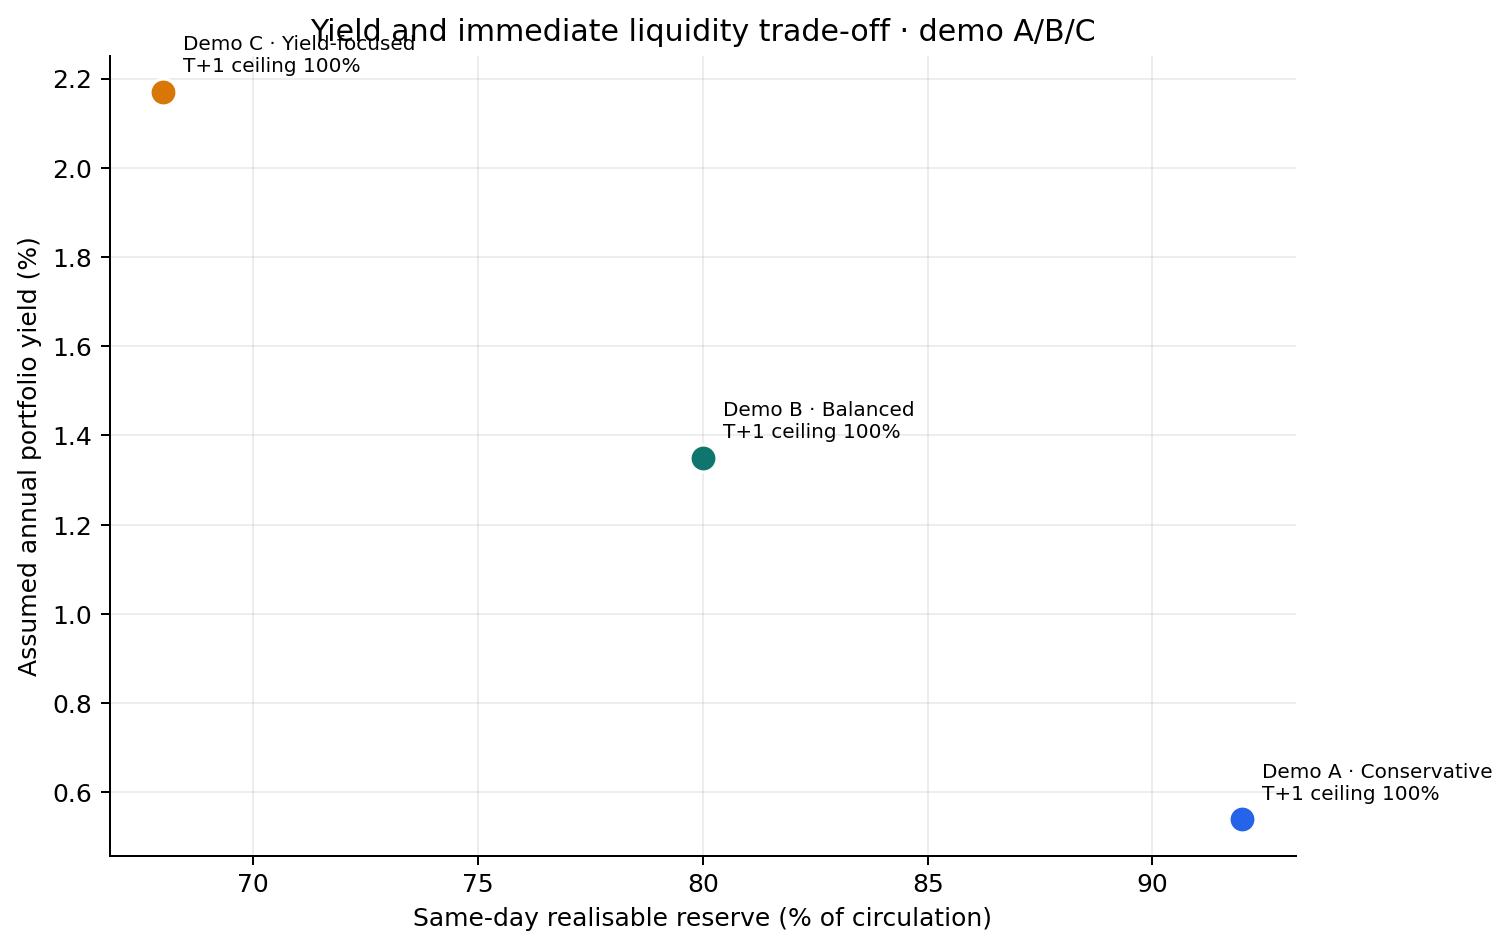
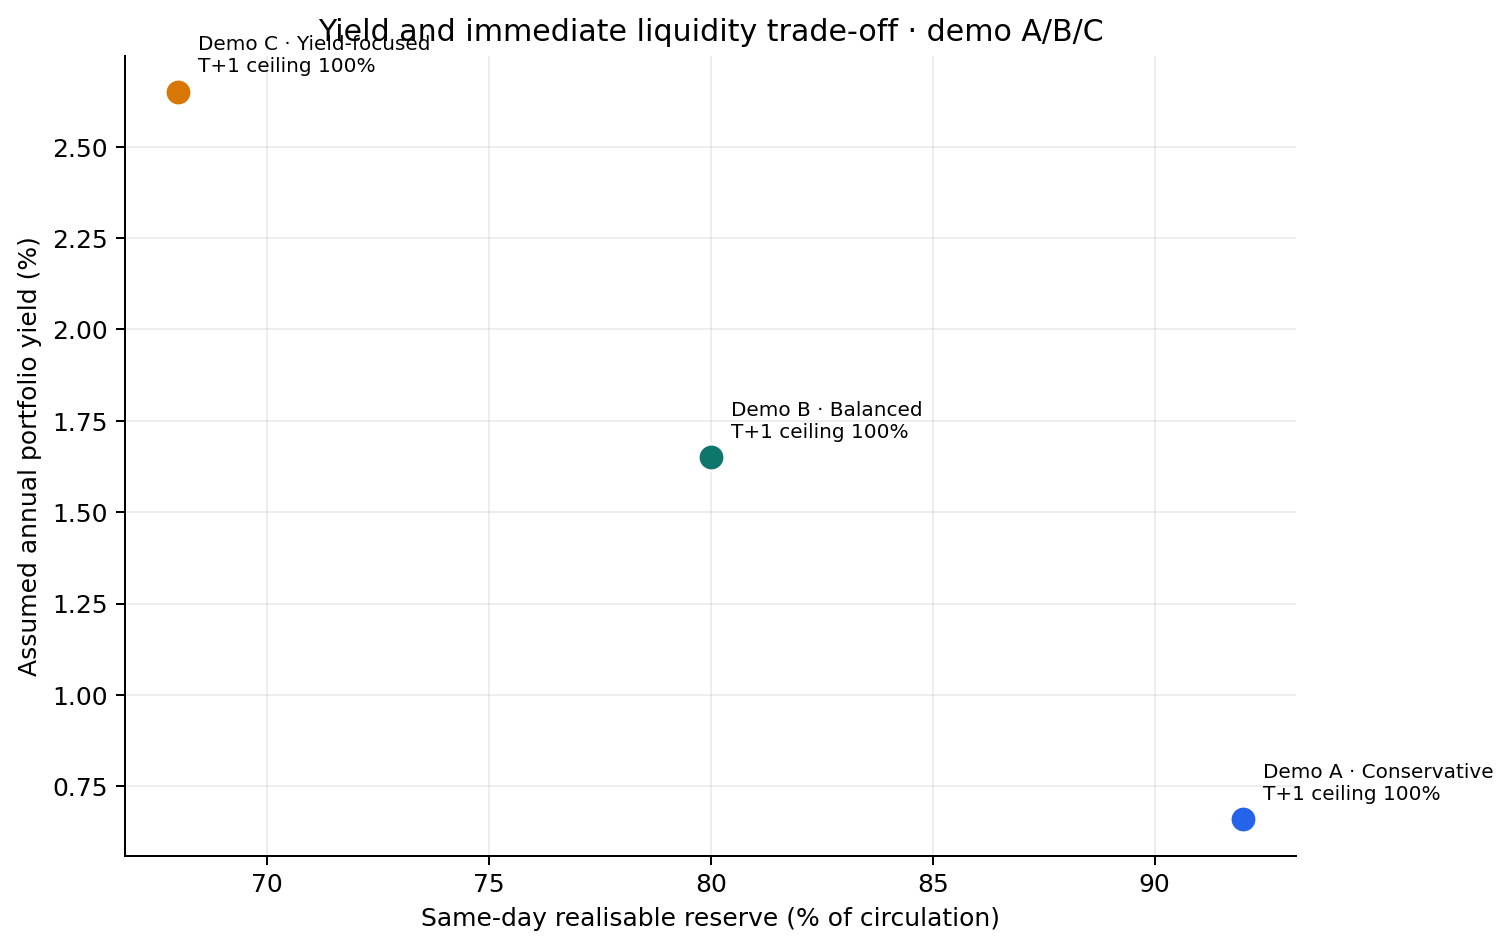
Use latest EFB yield and add Streamlit demo

diff --git a/app.py b/app.py
@@ -1,0 +1,189 @@
+"""Interactive Streamlit front end for the stablecoin redemption demo."""
+
+from __future__ import annotations
+
+import sys
+from pathlib import Path
+
+import matplotlib.pyplot as plt
+import numpy as np
+import pandas as pd
+import streamlit as st
+
+ROOT = Path(__file__).resolve().parent
+if str(ROOT) not in sys.path:
+    sys.path.insert(0, str(ROOT))
+
+from src.engine import (  # noqa: E402
+    coverage,
+    gap_and_flag,
+    load_assets,
+    load_portfolios,
+    on_time_available,
+    on_time_rate,
+    portfolio_yield,
+    same_day_available,
+    validate_weights,
+)
+from src.rules import allocate  # noqa: E402
+
+
+st.set_page_config(page_title="稳定币 T+1 兑付模拟", page_icon="💧", layout="wide")
+st.title("稳定币储备与 T+1 兑付韧性")
+st.caption("交互式 demo：调整资产流动性假设、组合权重和赎回冲击，即时查看兑付与分配结果。")
+
+
+@st.cache_data
+def load_inputs():
+    assets = load_assets(ROOT / "data" / "params_assets.csv")
+    portfolios = load_portfolios(ROOT / "data" / "portfolios.csv")
+    return assets, portfolios
+
+
+base_assets, base_portfolios = load_inputs()
+asset_rows = []
+for asset_id, asset in base_assets.items():
+    asset_rows.append({"asset_id": asset_id, **asset})
+asset_df = pd.DataFrame(asset_rows)
+weight_rows = []
+for portfolio_id, entry in base_portfolios.items():
+    for asset_id, weight in entry["weights"].items():
+        weight_rows.append({
+            "portfolio_id": portfolio_id,
+            "portfolio_name": entry["name"],
+            "asset_id": asset_id,
+            "weight": weight,
+        })
+weight_df = pd.DataFrame(weight_rows)
+
+with st.expander("调整资产参数与组合权重", expanded=False):
+    st.markdown("SD、T+1、压力扣减和收益率均可编辑；组合权重需要在每个组合内合计为 100%。")
+    edited_assets = st.data_editor(
+        asset_df,
+        hide_index=True,
+        width="stretch",
+        disabled=["asset_id", "asset_name_cn", "settle_days", "source", "note"],
+        column_config={
+            "same_day_ratio": st.column_config.NumberColumn("SD 比例", min_value=0.0, max_value=1.0, step=0.01, format="%.2f"),
+            "next_day_ratio": st.column_config.NumberColumn("T+1 增量比例", min_value=0.0, max_value=1.0, step=0.01, format="%.2f"),
+            "stress_haircut": st.column_config.NumberColumn("压力扣减", min_value=0.0, max_value=1.0, step=0.01, format="%.2f"),
+            "annual_yield": st.column_config.NumberColumn("年化收益率", min_value=-1.0, max_value=1.0, step=0.001, format="%.3%"),
+        },
+        key="asset_parameters",
+    )
+    edited_weights = st.data_editor(
+        weight_df,
+        hide_index=True,
+        width="stretch",
+        disabled=["portfolio_id", "portfolio_name", "asset_id"],
+        column_config={
+            "weight": st.column_config.NumberColumn("组合权重", min_value=0.0, max_value=1.0, step=0.01, format="%.2f"),
+        },
+        key="portfolio_weights",
+    )
+
+assets = {}
+for _, row in edited_assets.iterrows():
+    assets[row["asset_id"]] = {
+        "asset_name_cn": row["asset_name_cn"],
+        "same_day_ratio": float(row["same_day_ratio"]),
+        "next_day_ratio": float(row["next_day_ratio"]),
+        "settle_days": int(row["settle_days"]),
+        "stress_haircut": float(row["stress_haircut"]),
+        "annual_yield": float(row["annual_yield"]),
+        "source": row["source"],
+        "note": row["note"],
+    }
+portfolios = {pid: {"name": entry["name"], "weights": {}} for pid, entry in base_portfolios.items()}
+for _, row in edited_weights.iterrows():
+    portfolios[row["portfolio_id"]]["weights"][row["asset_id"]] = float(row["weight"])
+try:
+    validate_weights(portfolios, assets)
+except (ValueError, KeyError) as exc:
+    st.error(f"输入未通过校验：{exc}。请检查组合权重总和及资产代码。")
+    st.stop()
+
+portfolio_ids = list(portfolios)
+name_map = {pid: f"Demo {pid} · {portfolios[pid]['name']}" for pid in portfolio_ids}
+with st.sidebar:
+    st.header("模拟设置")
+    selected = st.selectbox("查看组合", portfolio_ids, format_func=lambda pid: name_map[pid])
+    shock = st.slider("赎回请求 / 流通量", min_value=5, max_value=120, value=80, step=5) / 100
+    rule = st.radio("同日资金分配规则", ["fcfs", "pro_rata"], format_func=lambda r: "FCFS · 先到先得" if r == "fcfs" else "Pro-rata · 按比例")
+    st.caption("持有人请求结构为示例假设，可调整后查看分配变化。")
+    h1 = st.slider("H1 请求占比", 0, 100, 50)
+    h2 = st.slider("H2 请求占比", 0, 100, 30)
+    h3 = st.slider("H3 请求占比", 0, 100, 20)
+
+share_total = h1 + h2 + h3
+if share_total == 0:
+    st.warning("至少给一位持有人设置正的请求占比。")
+    st.stop()
+shares = [h1 / share_total, h2 / share_total, h3 / share_total]
+entry = portfolios[selected]
+same_day = same_day_available(entry["weights"], assets)
+on_time = on_time_available(entry["weights"], assets)
+yield_rate = portfolio_yield(entry["weights"], assets)
+requests = [shock * share for share in shares]
+allocations = allocate(rule, same_day, requests)
+gap, failed = gap_and_flag(on_time, shock)
+timely = on_time_rate(on_time, shock)
+
+metric_cols = st.columns(4)
+metric_cols[0].metric("SD 同日可用", f"{same_day:.1%}")
+metric_cols[1].metric("SD + T+1 可用", f"{on_time:.1%}")
+metric_cols[2].metric("一工作日完成率", f"{timely:.1%}")
+metric_cols[3].metric("组合假设年化收益", f"{yield_rate:.2%}")
+st.write(f"当前情景：{shock:.0%} 赎回冲击 · {name_map[selected]} · {'未覆盖' if failed else '覆盖'} · SD+T+1 缺口 {gap:.1%}")
+
+allocation_df = pd.DataFrame({
+    "持有人": ["H1", "H2", "H3"],
+    "请求金额 / 流通量": requests,
+    "同日分配": allocations,
+    "SD 后延迟": [request - paid for request, paid in zip(requests, allocations)],
+})
+st.subheader("同日请求分配")
+st.dataframe(allocation_df.style.format("{:.1%}", subset=allocation_df.columns[1:]), hide_index=True, use_container_width=True)
+st.caption("分配规则作用于 SD 同日可用金额。SD 后延迟的请求仍可能由 T+1 资金在一个工作日内结算。H1/H2/H3 是模拟持有人，不代表真实用户数据。")
+
+shocks = np.linspace(0.05, 1.20, 24)
+curve_data = {}
+summary_rows = []
+for pid, portfolio in portfolios.items():
+    sd_amount = same_day_available(portfolio["weights"], assets)
+    t1_amount = on_time_available(portfolio["weights"], assets)
+    annual_yield = portfolio_yield(portfolio["weights"], assets)
+    curve_data[f"Demo {pid} · SD"] = [on_time_rate(sd_amount, x) for x in shocks]
+    curve_data[f"Demo {pid} · SD + T+1"] = [on_time_rate(t1_amount, x) for x in shocks]
+    summary_rows.append({
+        "组合": name_map[pid],
+        "同日可用": sd_amount,
+        "SD + T+1 上限": t1_amount,
+        "假设年化收益": annual_yield,
+    })
+
+chart_cols = st.columns(2)
+with chart_cols[0]:
+    st.subheader("完成率与赎回冲击")
+    curve_df = pd.DataFrame(curve_data, index=(shocks * 100).round(0).astype(int))
+    curve_df.index.name = "赎回冲击 (%)"
+    st.line_chart(curve_df, y_label="完成率", width="stretch")
+with chart_cols[1]:
+    st.subheader("收益率—同日流动性")
+    fig, ax = plt.subplots(figsize=(6.5, 4.2))
+    for row in summary_rows:
+        x = row["同日可用"] * 100
+        y = row["假设年化收益"] * 100
+        ax.scatter(x, y, s=90)
+        ax.annotate(row["组合"], (x, y), xytext=(6, 6), textcoords="offset points", fontsize=8)
+    ax.set_xlabel("SD 同日可变现比例 (%)")
+    ax.set_ylabel("假设年化收益 (%)")
+    ax.grid(alpha=0.25)
+    st.pyplot(fig, width="stretch")
+    plt.close(fig)
+
+st.subheader("组合对照")
+st.dataframe(pd.DataFrame(summary_rows).style.format({
+    "同日可用": "{:.1%}", "SD + T+1 上限": "{:.1%}", "假设年化收益": "{:.2%}"
+}), hide_index=True, width="stretch")
+st.info("基础 T+1 梯度是团队假设，可在上方展开编辑。当前 demo 的组合权重与报告 A–E 不同；编辑参数后的结果仅用于情景探索。")

diff --git a/README.md b/README.md
@@ -12,14 +12,16 @@ FTEC5510 Advanced Financial Infrastructure · Group 8
 - 实现 FCFS（先到先得）和 pro-rata（按请求比例分配）规则。规则分配同日流动性，SD 后尚未支付的请求仍可能在 T+1 内完成。
 - 扩展情景矩阵至 3 个组合 × 5 档冲击 × 2 种规则，共 30 行；另输出 90 行示例持有人分配明细。
 - 生成 4 张结果图；运行测试套件，9 项测试全部通过。
+- 用金管局 2026 年 11 月 17 日 Y2697（364 天）外汇基金票据招标的平均中标收益率 3.31% 更新国债收益率代理值。
+- 新增 Streamlit 交互页面，可调整流动性参数、组合权重、冲击规模和分配规则并即时查看结果。
 
 ## 当前 demo 结果
 
 | Demo 组合 | 现金 / 一年内国债 | SD 可用 | SD + T+1 上限 | 假设年化收益 | 80% 冲击下 MC 失败概率* |
 |---|---:|---:|---:|---:|---:|
-| A · 保守 | 80% / 20% | 92% | 100% | 0.54% | 17.5% |
-| B · 中性 | 50% / 50% | 80% | 100% | 1.35% | 19.5% |
-| C · 收益导向 | 20% / 80% | 68% | 100% | 2.17% | 20.9% |
+| A · 保守 | 80% / 20% | 92% | 100% | 0.66% | 17.5% |
+| B · 中性 | 50% / 50% | 80% | 100% | 1.66% | 19.5% |
+| C · 收益导向 | 20% / 80% | 68% | 100% | 2.65% | 20.9% |
 
 确定性情景下，三个 demo 组合都能覆盖最多 100% 流通量的请求；超过同日可用额的部分依赖 T+1。*失败概率是给定名义冲击后的条件概率，使用每情景 1,000 次对数正态抽样（`sigma = 0.25`、固定随机种子），不是无条件违约概率。
 
@@ -58,20 +60,29 @@ python -m unittest discover -s tests -v
 
 `src.run` 会写入 `outputs/results.csv`、`outputs/allocation_results.csv` 和 `outputs/mc_results.csv`；`src.plot_results` 会生成上面的 PNG 图。测试目前共 9 项。
 
+### Streamlit 交互页面
+
+```bash
+pip install -r requirements-app.txt
+streamlit run app.py
+```
+
+页面可编辑 SD/T+1 比例、压力扣减、年化收益率和组合权重，设置赎回冲击、FCFS/pro-rata 规则及示例持有人占比，并即时查看同日分配、完成率曲线和收益率—同日流动性图。
+
 ## 输入与假设
 
 - `data/portfolios.csv` 保存 demo A/B/C 的权重；每个组合权重和必须为 1。
 - `data/params_assets.csv` 保存同日比例、T+1 比例、压力扣减、收益率、来源和说明。
 - 原 demo 参数没有 T+1 梯度。本轮把存款和一年内国债未能同日变现的部分，以及隔夜逆回购剩余部分假设为 T+1 可用；这些是团队假设，不是监管参数或实测结算数据。当前每类资产的 SD + T+1 比例合计为 100%，所以三个组合的 T+1 上限均为 100%。
 - 持有人结构 H1/H2/H3 分别占总请求的 50%/30%/20%，只用于展示规则分配差别，不代表真实用户数据。
-- `gov_bond_1y` 收益率仍是 HIBOR 1M 代理占位值，尚未换成 364 天外汇基金票据中标收益率。
+- `gov_bond_1y` 的收益率使用金管局 2026-11-17 招标、Y2697（364 天）的平均中标收益率 3.31% 作代理值；[金管局招标结果](https://www.hkma.gov.hk/eng/news-and-media/press-releases/2026/11/20261117-4/)。这替代了此前 HIBOR 1M 占位值。债券/票据收益率只是简化代理，不能视作任一具体持仓的实际回报。
 
 ## 建议的后续工作
 
-1. 按 handover 第 7 节第 4 项，核实并替换 `gov_bond_1y` 收益率，注明拍卖日期与数据来源。
-2. 用可核查的数据或团队校准依据验证 T+1 比例，并至少比较保守、中央、乐观情形；当前所有组合 T+1 上限都是 100%，使一工作日确定性失败点无法区分组合。
-3. 如果报告需要统一结果，再单独扩展报告 A–E、九类资产和三套参数情形；不要把报告 A–E 与 demo A/B/C 混为一套。
-4. 若要研究队列公平性或 run dynamics，可增加真实或明确假设的持有人请求分布、到达顺序和逐日结算过程。当前规则模块只分配给定时点的同日可用资金。
+1. 用可核查的数据或团队校准依据验证 T+1 比例，并至少比较保守、中央、乐观情形；当前所有组合 T+1 上限都是 100%，使一工作日确定性失败点无法区分组合。
+2. 如果报告需要统一结果，再单独扩展报告 A–E、九类资产和三套参数情形；不要把报告 A–E 与 demo A/B/C 混为一套。
+3. 若要研究队列公平性或 run dynamics，可增加真实或明确假设的持有人请求分布、到达顺序和逐日结算过程。当前规则模块只分配给定时点的同日可用资金。
+4. 后续每次更新外汇基金票据或利率参数时，记录招标/观察日期并重新生成 `outputs/` 结果与图表。
 
 ## 项目边界
 

diff --git a/docs/handover.md b/docs/handover.md
@@ -59,7 +59,7 @@
 ## 5. 已知限制
 
 - 所有金额都按流通量等于 1.0 做归一化。
-- `gov_bond_1y` 的年化收益率是基于 HIBOR 1M 的占位值，拿到 364 天外汇基金票据中标收益率后应替换。
+- `gov_bond_1y` 的年化收益率已替换为 HKMA 2026-11-17 招标、Y2697（364 天）外汇基金票据的平均中标收益率 3.31% p.a.；来源与代理说明见 `data/params_assets.csv`。
 - 存款、债券与逆回购的同日可动用比例都是团队假设，不是监管规定。
 - 模型以一个工作日为单位，暂时没有日内时序。
 - 当前 demo 的 T+1 ladder 是团队假设：存款与一年内国债的未变现部分假设在 T+1 到账；隔夜逆回购剩余部分假设最迟在下一个工作日到账。详见 `data/params_assets.csv`。
@@ -72,6 +72,12 @@ python -m src.run
 python -m unittest discover -s tests -v
 ```
 
+Streamlit 页面（先安装 `requirements-app.txt`）：
+
+```bash
+streamlit run app.py
+```
+
 ## 7. 接手后的执行顺序
 
 按这个顺序做。详细要求见 `docs/work_division.md`。
@@ -79,8 +85,8 @@ python -m unittest discover -s tests -v
 1. `src/rules.py` —— 已实现并测试 `fcfs` 与 `pro_rata`，断言分配总额等于 `min(available, total_requests)`。
 2. 批量运行 —— 已覆盖三组合 × 五档冲击 × 两种规则，共 30 行；持有人分配明细另存为 90 行。
 3. 图表 —— 已生成组合流动性对照、SD 与 SD+T+1 完成率曲线、收益率—同日流动性图，以及蒙特卡洛失败概率热力图。
-4. 参数复核 —— 把 `gov_bond_1y` 的占位收益率换成 364 天外汇基金票据的中标收益率。
-5. （选做）Streamlit 页面。
+4. 参数复核 —— 已换成 2026-11-17 Y2697 364 天外汇基金票据平均中标收益率（3.31% p.a.）。
+5. （选做）Streamlit 页面 —— 已新增 `app.py`，可编辑参数和组合权重并即时查看结果；依赖见 `requirements-app.txt`。
 
 **归属**：从这一刻起 `src/` 归接手方维护。交接人不再向 `src/` 提交，只负责文档与截图。
 
